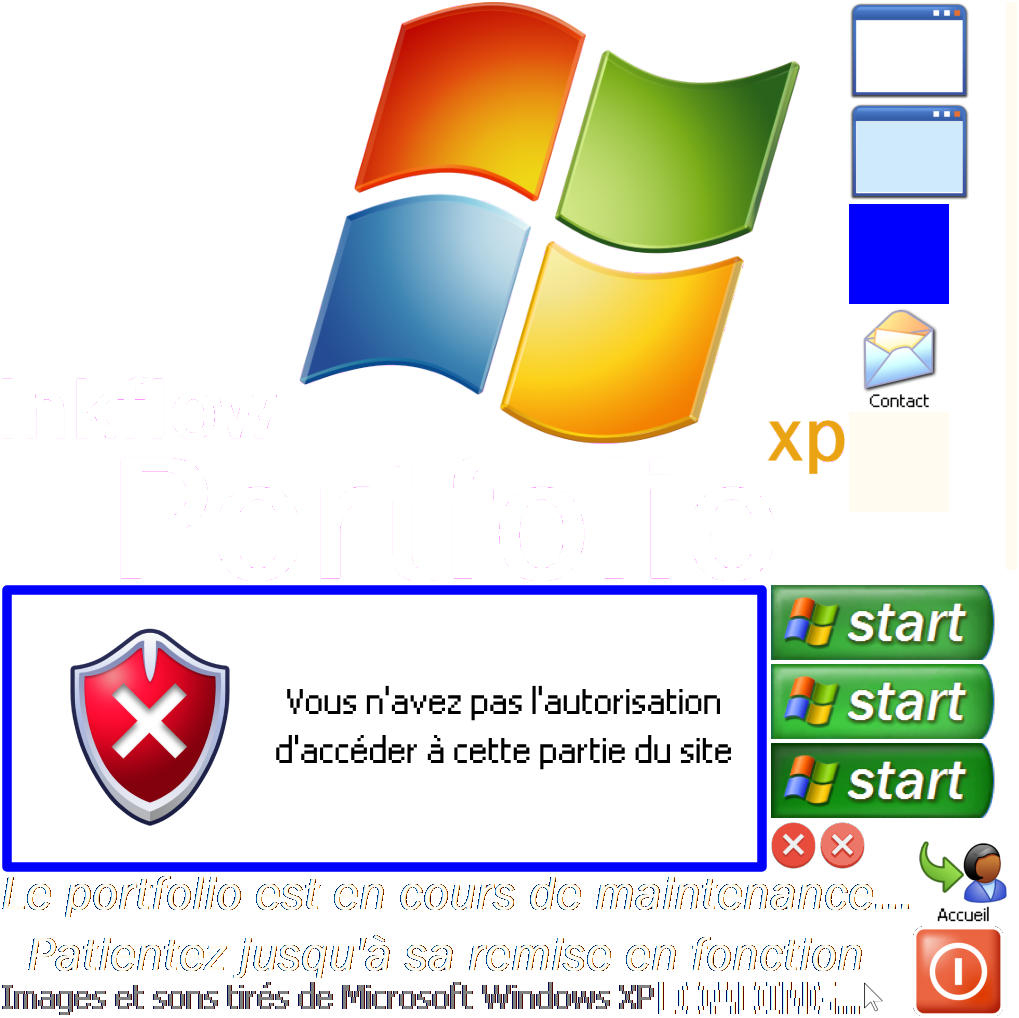
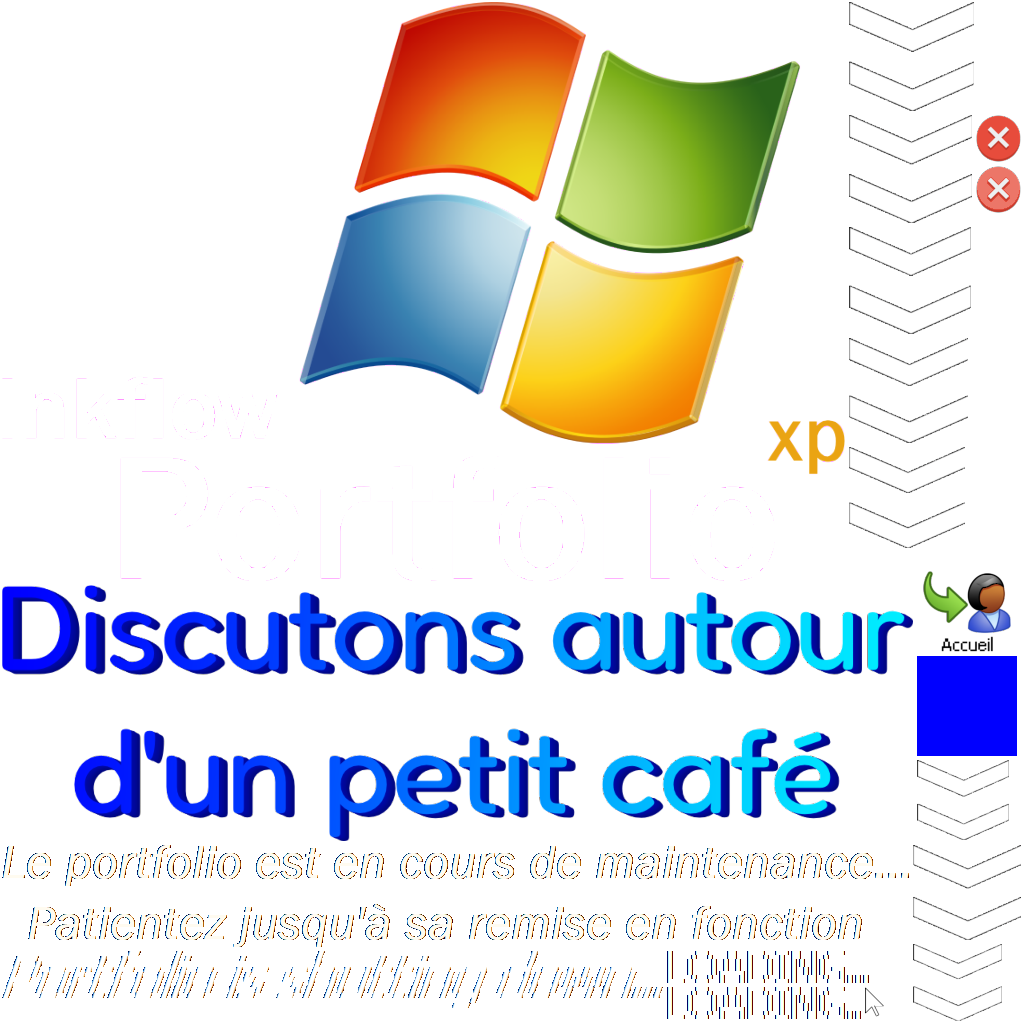
Version de test des nouvelles pages
Début des designs des pages Accueil, Veille technologique et contact

diff --git a/index.html b/index.html
@@ -30,52 +30,53 @@
   }
 </style>
 <head>
-    <meta http-equiv="Content-Type" content="text/html; charset=UTF-8"/>
-  
-    <link rel='icon' href='icon.ico' type='image/x-icon'/>
-  
-    <link rel="preconnect" href="https://fonts.googleapis.com">
-    <link rel="preconnect" href="https://fonts.gstatic.com" crossorigin>
-    <link href="https://fonts.googleapis.com/css2?family=Lato&display=swap" rel="stylesheet">
-  
-    <!-- Autorise le plein écran sur les mobiles iOS -->
-    <meta name="viewport" content="initial-scale=1.0, maximum-scale=1.0, minimum-scale=1.0, user-scalable=no, target-densitydpi=device-dpi" />
-    <meta name="apple-mobile-web-app-capable" content="yes" />
-    <meta name="apple-mobile-web-app-status-bar-style" content="black" />
-    <meta name="HandheldFriendly" content="true" />
-  
-    <title>Portfolio (ver. Dev)</title>
-  
-      <script>
-             // Detection des ancien navigateurs qui ne supportent pas l'element Canvas
-          // Appelle une page par defaut
-          if (!document.createElement("canvas").getContext)
-          {
-              window.open("http://www.clickteam.com/fr/html5-fallback", "_self");
-          }
-      </script>
-  
-        <!-- EXTRASOURCES -->
-      <!-- Charge le code Javascript...-->
-      <script src="src/Runtime.js"></script>
-  
-      <script>
-  
-          // Detecte si le fichier HTML est lance localement
-          // Vous pouvez enlever ce code dans la version finale
-          if (window.location.protocol == "file:")
-          {
-              document.write('<div id="bloctxt">');
-              document.write("<h1>Impossible de lancer l'application...</h1>");
-              document.write("<p>Les navigateurs Internet modernes ne vous permettent pas de lancer des pages Web <br>directement a partir de l'ordinateur.<br>");
-              document.write("Un glisser-deposer d'un fichier HTML ne fonctionnera pas plus, quelle que soit la machine.<br>");
-              document.write("Utilisez l'option Construire & Lancer pour tester votre application (elle lance un serveur Web local),<br>")
-              document.write("ou t&eacutel&eacutechargez votre application sur un serveur Web...</p>");
-              document.write('</div>');
-              throw new error("Cannot run application");
-          }
-      </script>
-  </head>
+  <meta http-equiv="Content-Type" content="text/html; charset=UTF-8"/>
+
+  <link rel='icon' href='icon.ico' type='image/x-icon'/>
+
+  <link rel="preconnect" href="https://fonts.googleapis.com">
+  <link rel="preconnect" href="https://fonts.gstatic.com" crossorigin>
+  <link href="https://fonts.googleapis.com/css2?family=Lato&display=swap" rel="stylesheet">
+  <link href="https://fonts.googleapis.com/css2?family=Fredoka:wght@300..700&display=swap" rel="stylesheet">
+
+  <!-- Autorise le plein écran sur les mobiles iOS -->
+  <meta name="viewport" content="initial-scale=1.0, maximum-scale=1.0, minimum-scale=1.0, user-scalable=no, target-densitydpi=device-dpi" />
+  <meta name="apple-mobile-web-app-capable" content="yes" />
+  <meta name="apple-mobile-web-app-status-bar-style" content="black" />
+  <meta name="HandheldFriendly" content="true" />
+
+  <title>Portfolio (ver. Dev)</title>
+
+	<script>
+	   	// Detection des ancien navigateurs qui ne supportent pas l'element Canvas
+		// Appelle une page par defaut
+	    if (!document.createElement("canvas").getContext)
+	    {
+			window.open("http://www.clickteam.com/fr/html5-fallback", "_self");
+		}
+	</script>
+
+  	<!-- EXTRASOURCES -->
+	<!-- Charge le code Javascript...-->
+    <script src="src/Runtime.js"></script>
+
+    <script>
+
+	    // Detecte si le fichier HTML est lance localement
+	    // Vous pouvez enlever ce code dans la version finale
+	    if (window.location.protocol == "file:")
+	    {
+		    document.write('<div id="bloctxt">');
+		    document.write("<h1>Impossible de lancer l'application...</h1>");
+		    document.write("<p>Les navigateurs Internet modernes ne vous permettent pas de lancer des pages Web <br>directement a partir de l'ordinateur.<br>");
+		    document.write("Un glisser-deposer d'un fichier HTML ne fonctionnera pas plus, quelle que soit la machine.<br>");
+		    document.write("Utilisez l'option Construire & Lancer pour tester votre application (elle lance un serveur Web local),<br>")
+		    document.write("ou t&eacutel&eacutechargez votre application sur un serveur Web...</p>");
+		    document.write('</div>');
+		    throw new error("Cannot run application");
+	    }
+    </script>
+</head>
 
 <body>
     <div style="display: inline-block; -webkit-user-select: none; text-align: left;">

diff --git a/src/Runtime.js b/src/Runtime.js
@@ -1,5 +1,25 @@
 window['Runtime'] = (function Runtime(__can, __path){
 	var __scope = this;
+	// CService object
+	// -----------------------------------------------------------------
+	/* Copyright (c) 1996-2012 Clickteam
+	 *
+	 * This source code is part of the HTML5 exporter for Clickteam Multimedia Fusion 2.
+	 * 
+	 * Permission is hereby granted to any person obtaining a legal copy 
+	 * of Clickteam Multimedia Fusion 2 to use or modify this source code for 
+	 * debugging, optimizing, or customizing applications created with 
+	 * Clickteam Multimedia Fusion 2. 
+	 * Any other use of this source code is prohibited.
+	 *
+	 * THE SOFTWARE IS PROVIDED "AS IS", WITHOUT WARRANTY OF ANY KIND, EXPRESS OR
+	 * IMPLIED, INCLUDING BUT NOT LIMITED TO THE WARRANTIES OF MERCHANTABILITY,
+	 * FITNESS FOR A PARTICULAR PURPOSE AND NONINFRINGEMENT. IN NO EVENT SHALL THE
+	 * AUTHORS OR COPYRIGHT HOLDERS BE LIABLE FOR ANY CLAIM, DAMAGES OR OTHER
+	 * LIABILITY, WHETHER IN AN ACTION OF CONTRACT, TORT OR OTHERWISE, ARISING
+	 * FROM, OUT OF OR IN CONNECTION WITH THE SOFTWARE OR THE USE OR OTHER DEALINGS
+	 * IN THE SOFTWARE.
+	 */
 
 	var CServices = {};
 
